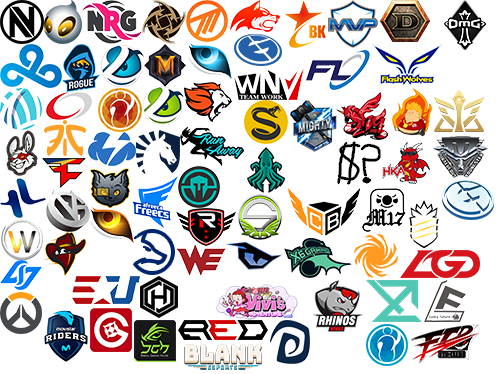
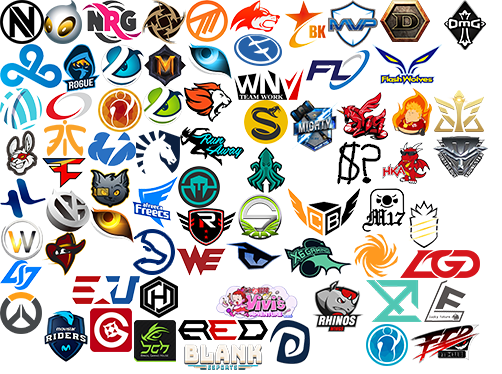
EG duplicate removed, duh...

Changed region(s): [[0.8665, 0.4706, 0.9861, 0.5882]]

diff --git a/src/styles.css b/src/styles.css
@@ -2636,11 +2636,6 @@ body .flairselector li:hover {
 	height: 15px;
 	width: 21px;
 }
-.flair-evil-geniuses, .md a[href*="counter-evil-geniuses"] {
-	background-position: -221px -90px;
-	height: 20px;
-	width: 26px;
-}
 
 /* Flair picker team names */
 .flairselector .flair-envyus+span:after { content:"EnVyUs" }
@@ -2716,7 +2711,6 @@ body .flairselector li:hover {
 .flairselector .flair-jhg-gold+span:after { content:"JHG Gold" }
 .flairselector .flair-miraculous-youngsters+span:after { content:"Miraculous Youngsters" }
 .flairselector .flair-counter-logic-gaming+span:after { content:"Counter Logic Gaming" }
-.flairselector .flair-evil-geniuses+span:after { content:"Evil Geniuses" }
 
 /* Small team and flag icons */
 .md a[href^="#team-small-"], .md a[href^="#flag-small-"] {
